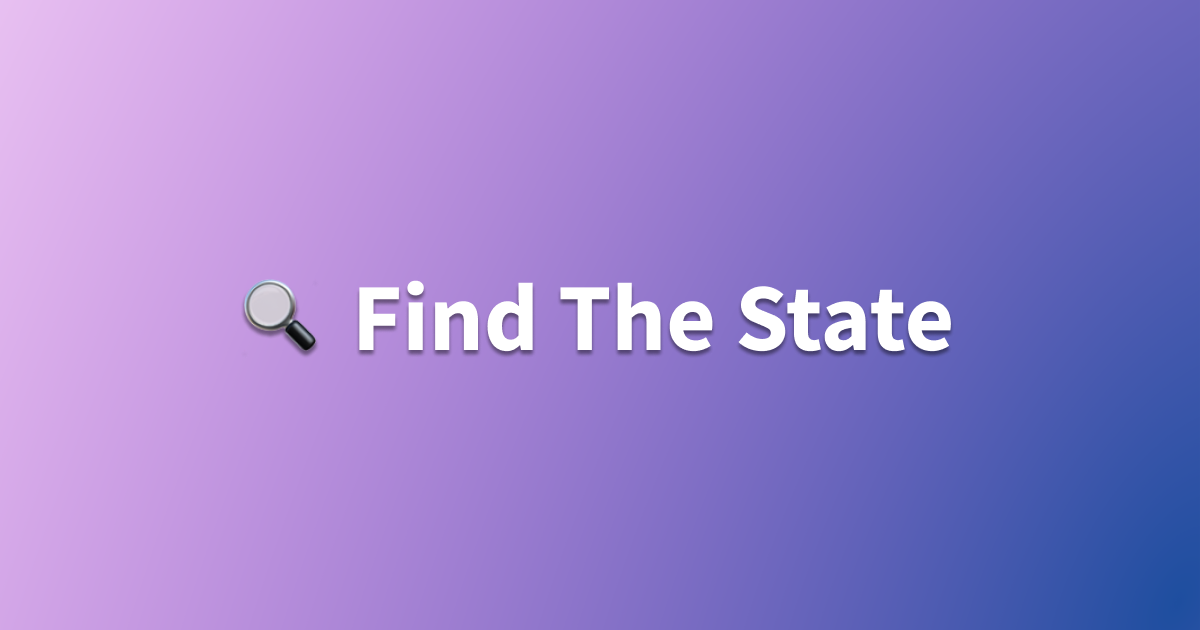
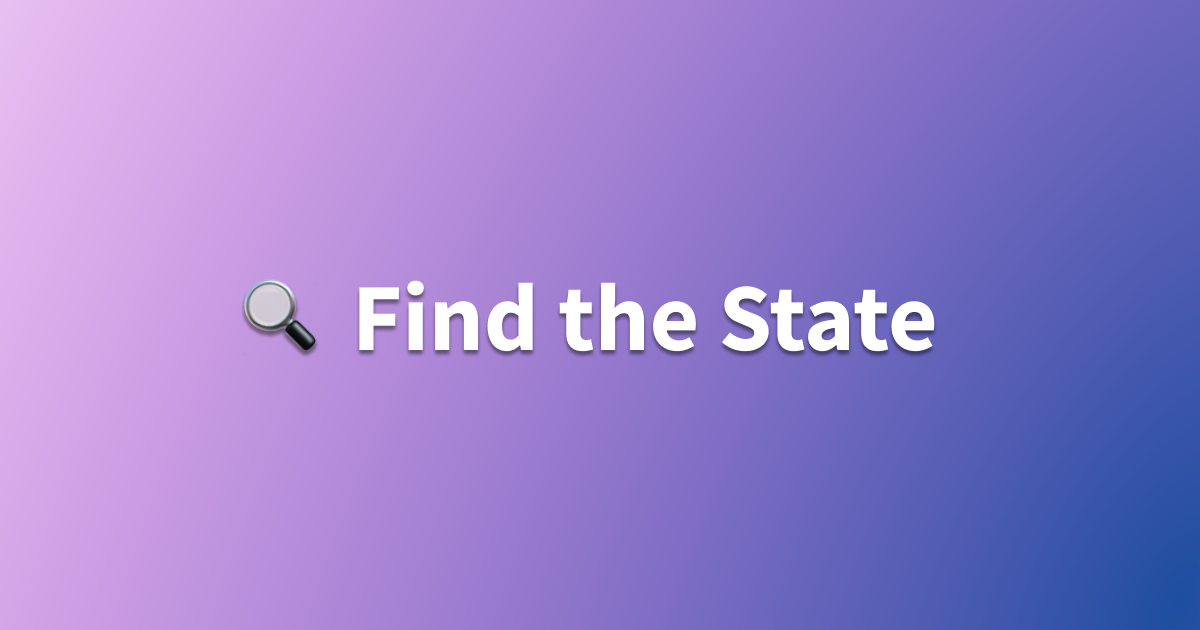
Update syntax

Changed region(s): [[0.4625, 0.4222, 0.8017, 0.573]]

diff --git a/public/index.html b/public/index.html
@@ -28,22 +28,22 @@
       href="https://api.tiles.mapbox.com/mapbox-gl-js/v2.1.1/mapbox-gl.css"
       rel="stylesheet"
     />
-    <title>Find The State</title>
+    <title>Find the State</title>
 
     <!-- Twitter -->
     <meta name="twitter:card" content="summary_large_image" />
     <meta name="twitter:site" content="@johndatserakis" />
     <meta name="twitter:creator" content="@johndatserakis" />
-    <meta name="twitter:title" content="Find The State" />
+    <meta name="twitter:title" content="Find the State" />
     <meta name="twitter:description" content="Find all the States in the contiguous USA on a map. Simple enough." />
     <meta name="twitter:image" content="%PUBLIC_URL%/social.png" />
-    <meta name="twitter:image:alt" content="Find The State Logo" />
+    <meta name="twitter:image:alt" content="Find the State Logo" />
 
     <!-- Facebook -->
     <meta property="og:image" content="%PUBLIC_URL%/social.png" />
     <meta property="og:url" content="https://jolly-murdock-43b71d.netlify.app/" />
     <meta property="og:type" content="website" />
-    <meta property="og:title" content="Find The State" />
+    <meta property="og:title" content="Find the State" />
     <meta property="og:description" content="Find all the States in the contiguous USA on a map. Simple enough." />
 
   </head>

diff --git a/src/components/common/Navbar.tsx b/src/components/common/Navbar.tsx
@@ -26,7 +26,7 @@ export const Navbar = () => {
               iconLeft={<Emoji symbol="🔍" label="Search" />}
               item={
                 <Typography variant="h6">
-                  <strong>Find The State</strong>
+                  <strong>Find the State</strong>
                 </Typography>
               }
             />

diff --git a/README.md b/README.md
@@ -1,4 +1,4 @@
-# Find The State UI
+# Find the State UI
 
 Find all the States in the contiguous USA on a map. Simple enough.
 
